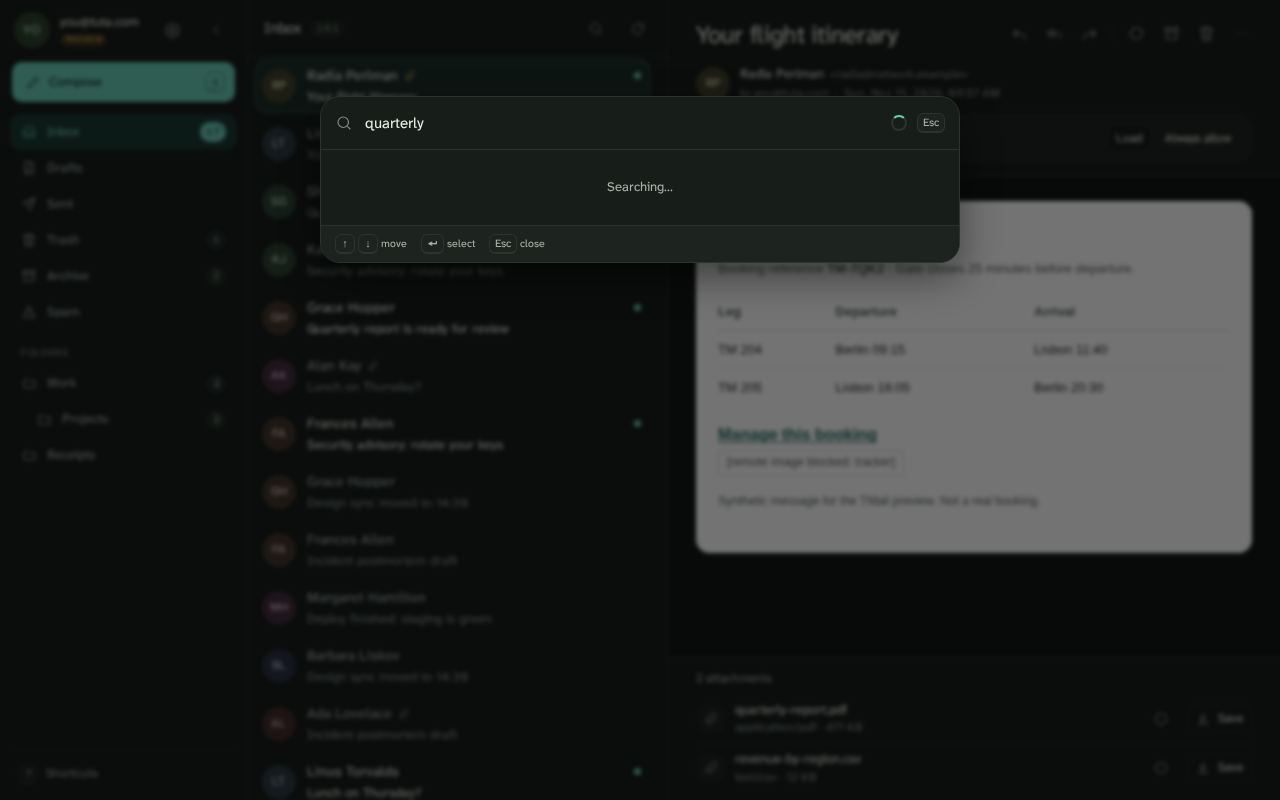
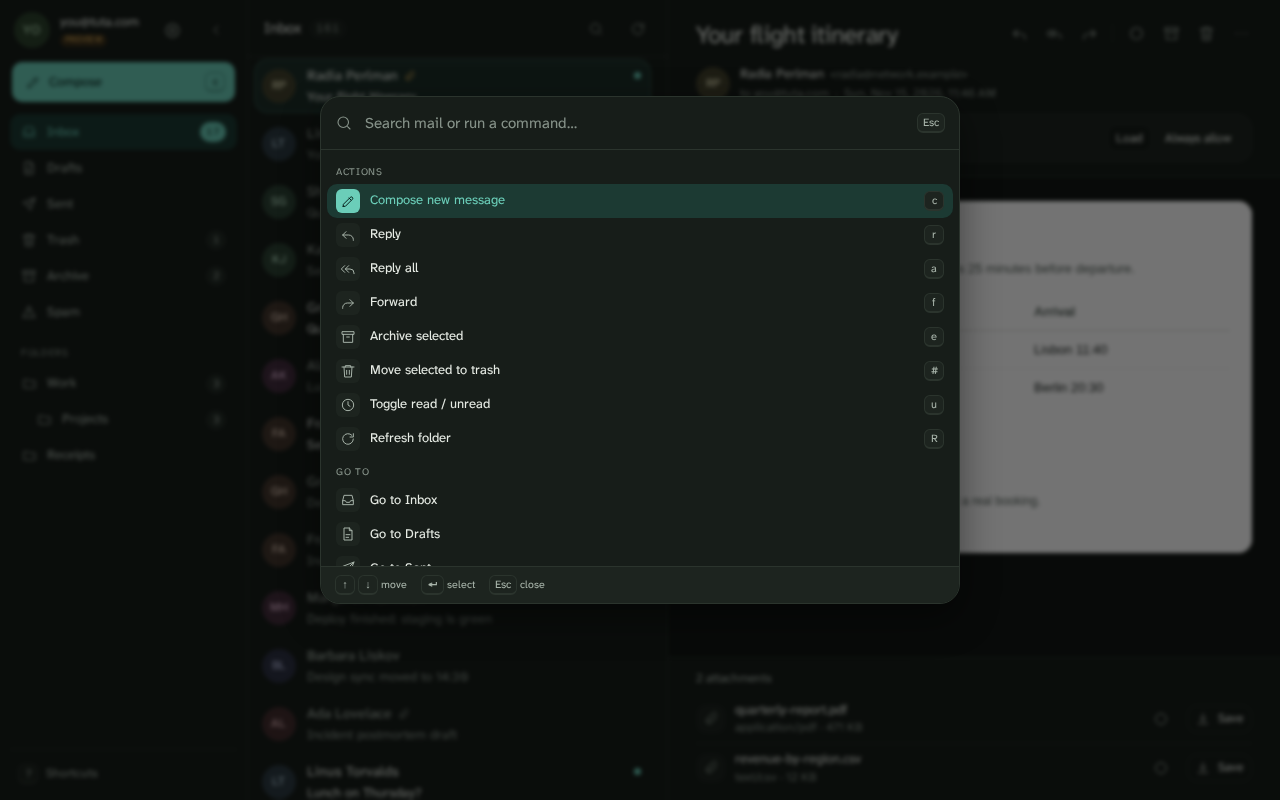
Make the screenshot gallery large and refresh the demo shots
- README and release notes use full-width screenshots with a large inbox
  overview instead of a cramped table
- command palette shots now show the empty palette/actions, without a search
- remove the mobile reader screenshot
- regenerate dark-theme screenshots from the current UI

diff --git a/ui/tests/shots.spec.ts b/ui/tests/shots.spec.ts
@@ -49,10 +49,7 @@ test('capture review screens', async ({ page }) => {
 
   await page.keyboard.press('Control+k');
   await expect(page.getByRole('dialog', { name: 'Command palette' })).toBeVisible();
-  const paletteInput = page.getByRole('combobox', { name: 'Search mail or run a command' });
-  await expect(paletteInput).toBeVisible();
-  await paletteInput.fill('quarterly');
-  await expect(page.getByText(/Quarterly report/i).first()).toBeVisible();
+  await expect(page.getByRole('combobox', { name: 'Search mail or run a command' })).toBeVisible();
   await shot(page, 'palette-light');
   await page.keyboard.press('Escape');
 
@@ -84,8 +81,7 @@ test('capture review screens', async ({ page }) => {
 
   await page.keyboard.press('Control+k');
   await expect(page.getByRole('dialog', { name: 'Command palette' })).toBeVisible();
-  await page.getByRole('combobox', { name: 'Search mail or run a command' }).fill('quarterly');
-  await expect(page.getByText(/Quarterly report/i).first()).toBeVisible();
+  await expect(page.getByRole('combobox', { name: 'Search mail or run a command' })).toBeVisible();
   await shot(page, 'palette-dark');
   await page.keyboard.press('Escape');
 
@@ -99,8 +95,4 @@ test('capture review screens', async ({ page }) => {
   await page.goto('/?mock=inbox');
   await expect(page.getByRole('heading', { name: 'Inbox', level: 1 })).toBeVisible();
   await shot(page, 'mobile-inbox');
-  await page.getByRole('listbox', { name: /Inbox messages/ }).focus();
-  await page.keyboard.press('Enter');
-  await expect(page.getByRole('heading', { level: 2 })).toBeVisible();
-  await shot(page, 'mobile-reader');
 });

diff --git a/README.md b/README.md
@@ -24,15 +24,33 @@ reader that never loads a tracking pixel by itself.
 
 > Synthetic demo mailbox. No real account content is shown.
 
-| Inbox | Reader |
-|---|---|
-| ![TMail inbox with sender avatars and no timestamps](docs/review-shots/inbox-light.png) | ![TMail reader with a formatted message](docs/review-shots/reader-light.png) |
-| **Composer** | **Command palette** |
-| ![Gmail-style TMail composer with aliases and scheduling](docs/review-shots/composer-light.png) | ![TMail command palette and local search](docs/review-shots/palette-light.png) |
-| **Settings** | **Dark theme** |
-| ![TMail settings for appearance, sending and notifications](docs/review-shots/settings-light.png) | ![TMail inbox in dark mode](docs/review-shots/inbox-dark.png) |
-| **Mobile inbox** | **Mobile reader** |
-| ![TMail responsive inbox](docs/review-shots/mobile-inbox.png) | ![TMail responsive reader](docs/review-shots/mobile-reader.png) |
+### Inbox — overview
+
+![TMail inbox with sender avatars, unread dots and no timestamps](docs/review-shots/inbox-light.png)
+
+### Reader
+
+![TMail reader with a formatted message, attachments and inline links](docs/review-shots/reader-light.png)
+
+### Composer
+
+![Gmail-style TMail composer with sender aliases, schedule and attachments](docs/review-shots/composer-light.png)
+
+### Command palette
+
+![TMail command palette with actions and local search](docs/review-shots/palette-light.png)
+
+### Settings
+
+![TMail settings for appearance, sending, notifications and privacy](docs/review-shots/settings-light.png)
+
+### Dark theme
+
+![TMail inbox in dark mode](docs/review-shots/inbox-dark.png)
+
+### Mobile inbox
+
+![TMail responsive inbox](docs/review-shots/mobile-inbox.png)
 
 ---
 
